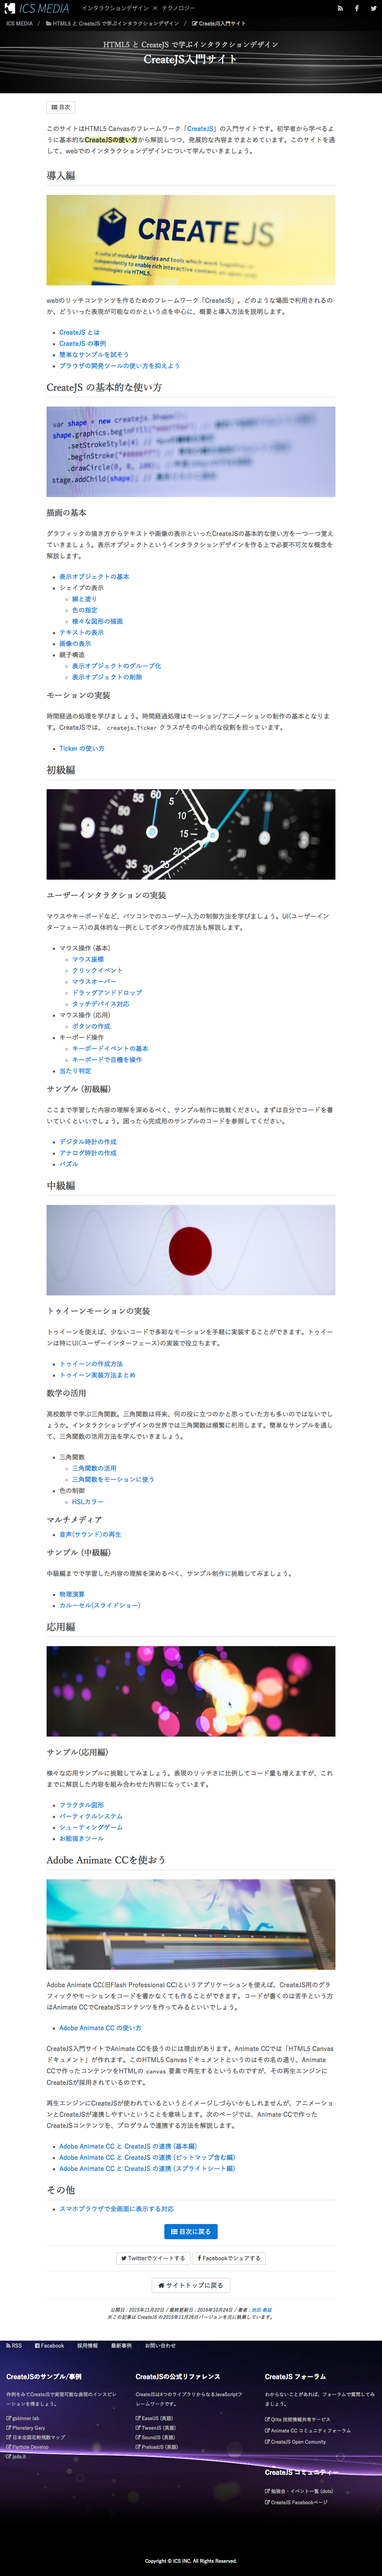
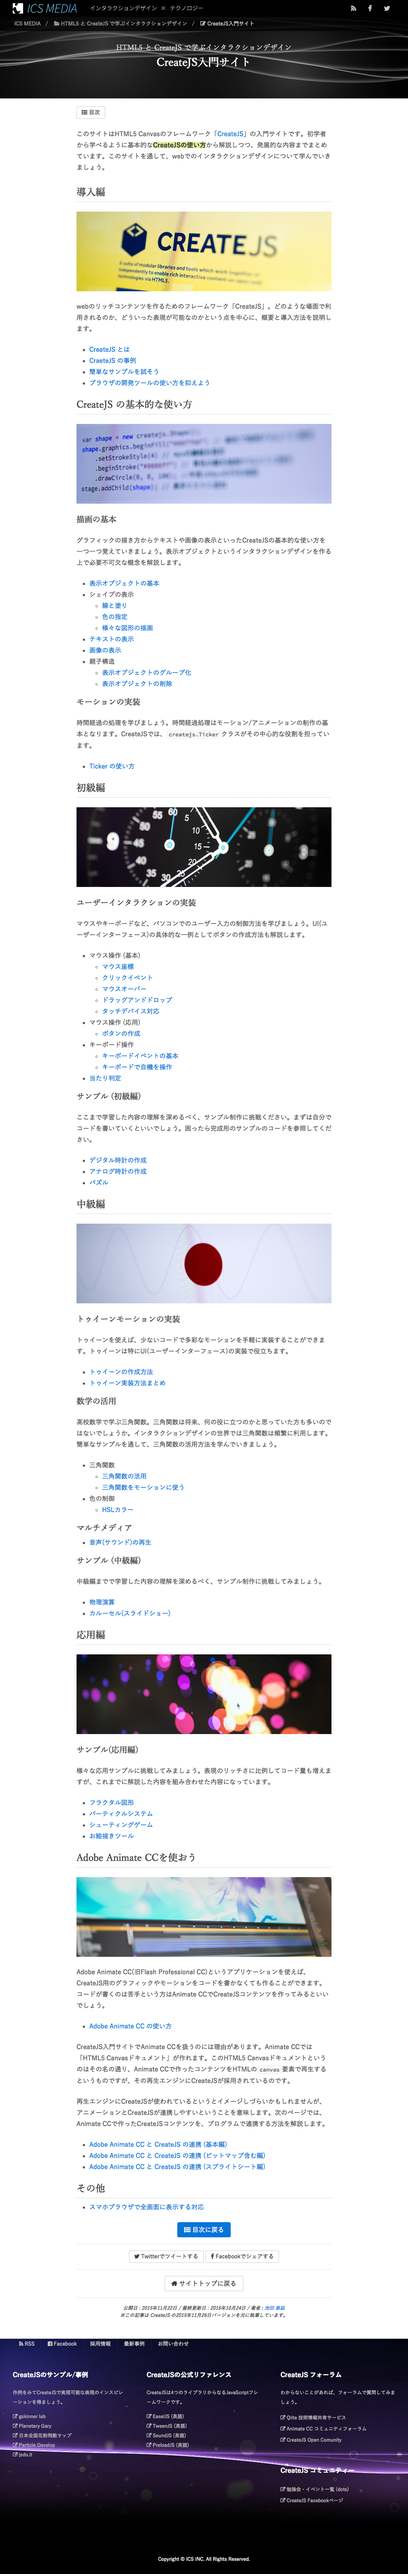
ビューポートの扱いを調整

diff --git a/main.js b/main.js
@@ -1,8 +1,8 @@
 // 定数宣言 (必要に応じて書き換えてください)
 const TARGET_FOLDER = './samples'; // キャプチャーしたいHTMLのフォルダー
 const OUTPUT_FOLDER = './imgs'; // 保存先のフォルダー
-const CAPTURE_W = '960'; // キャプチャーサイズ(幅：単位px)
-const CAPTURE_H = '960'; // キャプチャーサイズ(高さ：単位px)
+const VIEWPORT_W = '1024'; // viewportの横幅(幅：単位px)
+const VIEWPORT_H = '768'; // viewportの高さ(幅：単位px)
 const IGNORE_LIST = ['.DS_Store', 'Thumbs.db', '.idea']; // 無視リスト
 const PHANTOM_JS_FILE = 'render.js'; // PhantomJSのパス
 
@@ -24,8 +24,8 @@ fs.readdir(TARGET_FOLDER, (err, files) => {
         PHANTOM_JS_FILE,
         targetFilePath,
         outputFilePath,
-        CAPTURE_W,
-        CAPTURE_H
+        VIEWPORT_W,
+        VIEWPORT_H
       ];
       const childPromise = new Promise((resolve) => {
         // ここでrender.jsをphantomjsで呼び出して実行する

diff --git a/render.js b/render.js
@@ -1,17 +1,15 @@
 const page = require('webpage').create();
 const system = require('system');
 
-// argsは、phantom.argsでアクセスできる。
+// 引数は、system.argsでアクセスできる。
 const address = system.args[1];
 const output = system.args[2];
-const width = system.args[3];
-const height = system.args[4];
+const VIEWPORT_W = system.args[3];
+const VIEWPORT_H = system.args[4];
 
 page.viewportSize = {
-  width: width,
-  height: height,
-  margin: '0px',
-  padding: '0px'
+  width: VIEWPORT_W,
+  height: VIEWPORT_H,
 };
 
 page.open(address,
